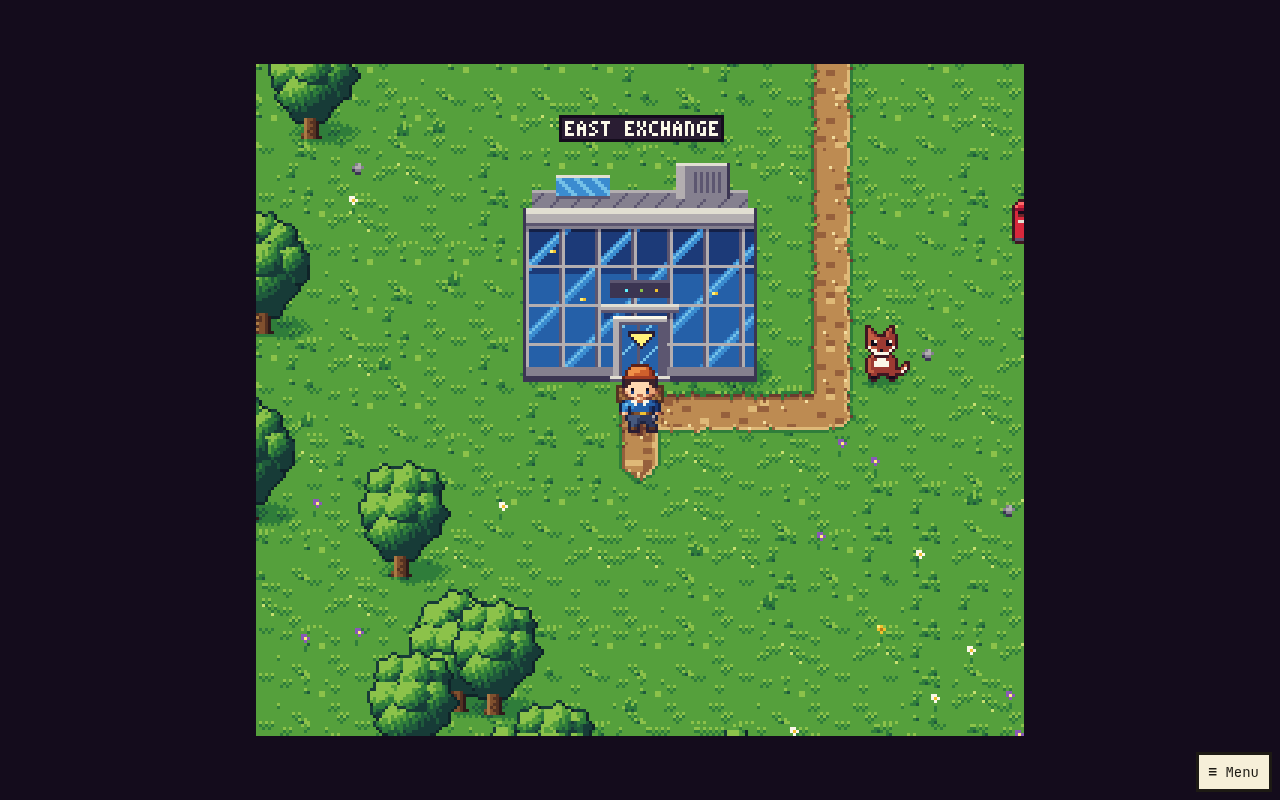
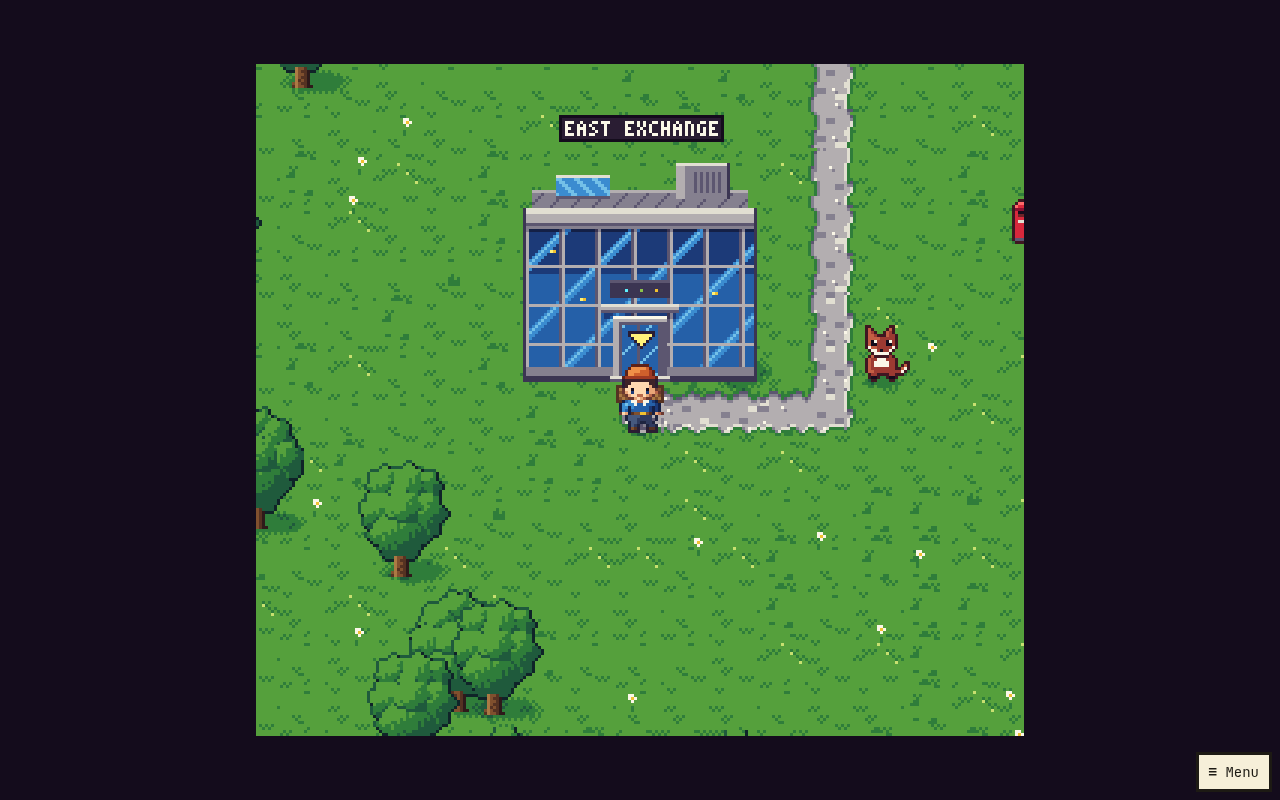
Walks search with typed arrays; refreshed live overworld screenshot
path() keeps its rules (doors and airfield pads are ends, never stepping stones) and searches with typed arrays
and a flat queue shared between calls instead of a Map and an object per tile, so a tap on a large region costs a
few milliseconds.

diff --git a/web/src/game/world/gen.ts b/web/src/game/world/gen.ts
@@ -25,6 +25,7 @@ export interface Pos {
   readonly y: number;
 }
 export const STEP: Readonly<Record<Dir, Pos>> = { N: { x: 0, y: -1 }, S: { x: 0, y: 1 }, W: { x: -1, y: 0 }, E: { x: 1, y: 0 } };
+const STEPS = Object.values(STEP);
 
 export interface WorldSite {
   readonly id: number;
@@ -742,28 +743,39 @@ export class WorldMap {
   path(from: Pos, to: Pos): Pos[] {
     const b = this.buildingAt(to.x, to.y);
     const goal = b ?? to;
-    if (!this.walkable(goal.x, goal.y)) return [];
-    const key = (p: Pos) => p.y * this.w + p.x;
-    const prev = new Map<number, number>([[key(from), -1]]);
-    const q: Pos[] = [from];
-    for (let qi = 0; qi < q.length; qi++) {
-      const p = q[qi]!;
-      if (p.x === goal.x && p.y === goal.y) break;
-      for (const s of Object.values(STEP)) {
-        const n = { x: p.x + s.x, y: p.y + s.y };
-        const end = n.x === goal.x && n.y === goal.y;
+    if (!this.walkable(goal.x, goal.y) || !this.inside(from.x, from.y)) return [];
+    // typed arrays and a flat queue: a tap on a big region searches thousands of tiles within one frame
+    const w = this.w, start = from.y * w + from.x, end = goal.y * w + goal.x;
+    if (bfs.prev.length < w * this.h) (bfs.prev = new Int32Array(w * this.h)), (bfs.seen = new Uint32Array(w * this.h)), (bfs.queue = new Int32Array(w * this.h));
+    if (++bfs.stamp === 0xffffffff) (bfs.seen.fill(0), (bfs.stamp = 1));
+    const { prev, seen, queue: q, stamp } = bfs;
+    seen[start] = stamp;
+    prev[start] = -1;
+    let head = 0, tail = 0;
+    q[tail++] = start;
+    while (head < tail) {
+      const k = q[head++]!;
+      if (k === end) break;
+      const x = k % w, y = (k - x) / w;
+      for (const s of STEPS) {
+        const nx = x + s.x, ny = y + s.y, n = ny * w + nx;
+        if (!this.walkable(nx, ny) || seen[n] === stamp) continue;
         // Doors and the airfield pad are ends, never stepping stones.
-        if (!this.walkable(n.x, n.y) || prev.has(key(n)) || ((this.doorAt(n.x, n.y) || this.isWarp(n.x, n.y)) && !end)) continue;
-        prev.set(key(n), key(p));
-        q.push(n);
+        if (n !== end && this.has(nx, ny, DOOR | WARP)) continue;
+        seen[n] = stamp;
+        prev[n] = k;
+        q[tail++] = n;
       }
     }
-    if (!prev.has(key(goal))) return [];
+    if (seen[end] !== stamp || end === start) return [];
     const out: Pos[] = [];
-    for (let k = key(goal); k !== key(from); k = prev.get(k)!) out.push({ x: k % this.w, y: Math.floor(k / this.w) });
+    for (let k = end; k !== start; k = prev[k]!) out.push({ x: k % w, y: Math.floor(k / w) });
     return out.reverse();
   }
 }
+
+/** Scratch space of path(), shared by every map and reused between calls (one walk is searched at a time). */
+const bfs = { prev: new Int32Array(0), seen: new Uint32Array(0), queue: new Int32Array(0), stamp: 0 };
 
 export function dirTo(a: Pos, b: Pos): Dir {
   return b.x > a.x ? 'E' : b.x < a.x ? 'W' : b.y < a.y ? 'N' : 'S';
